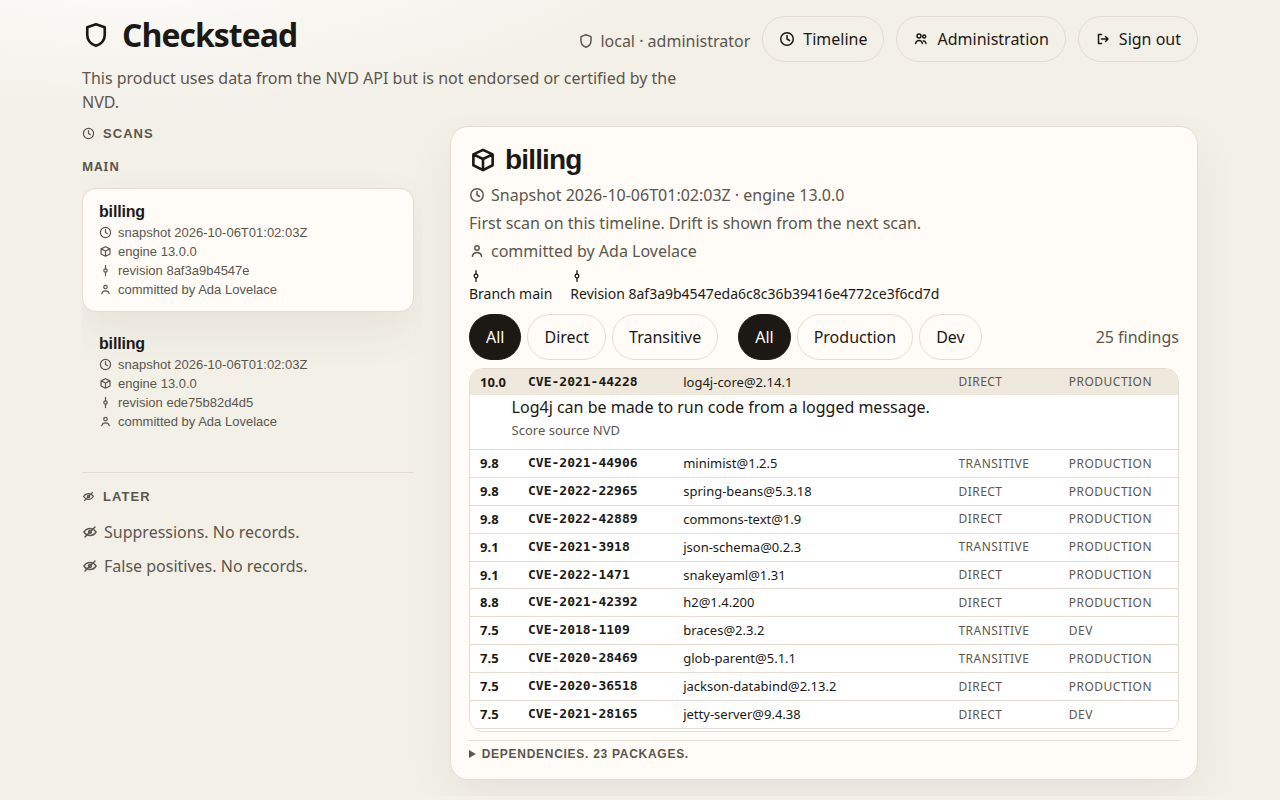
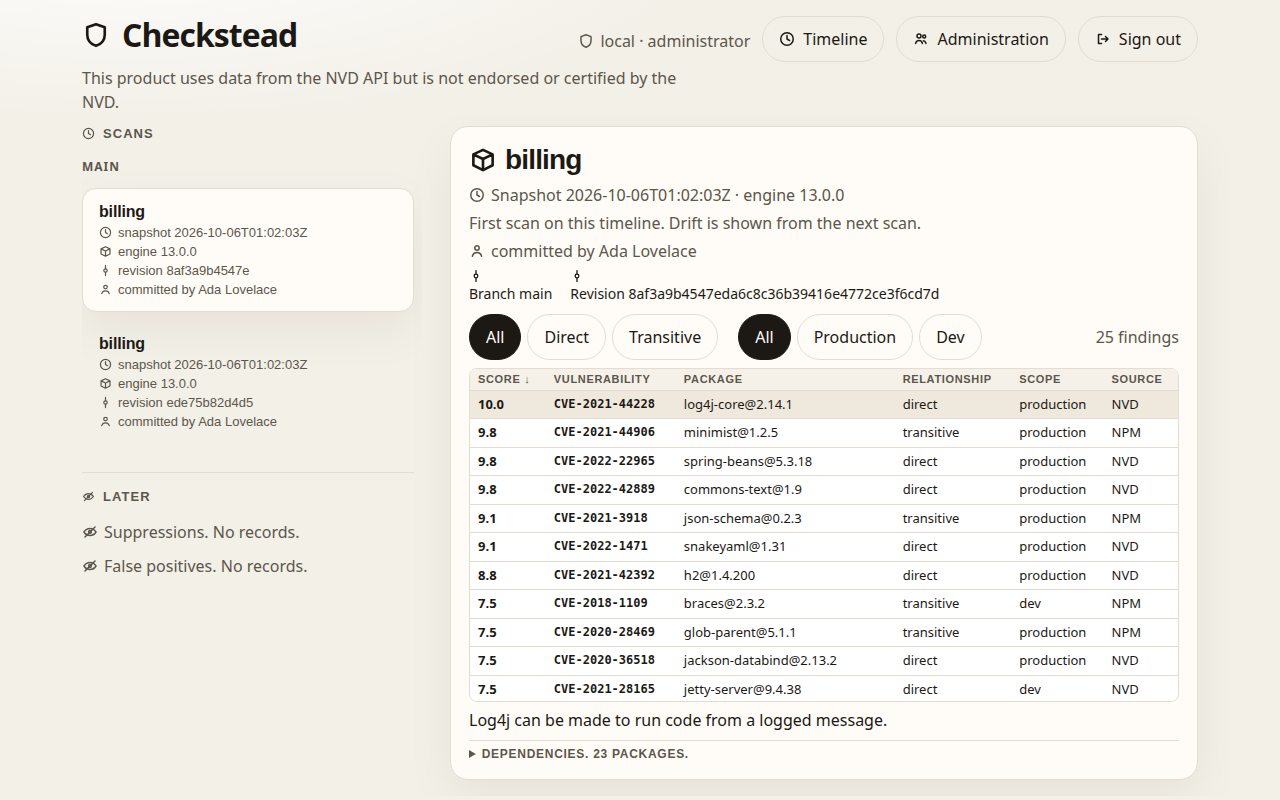
Show findings in one sortable table.
The columns are score, vulnerability, package, relationship, scope, and source. The header sticks while the rows scroll, a selected row is highlighted, and the description is one line under the table.

Changed region(s): [[0.3438, 0.4688, 0.9375, 0.9375]]

diff --git a/src/checkstead/ui_page.html b/src/checkstead/ui_page.html
@@ -128,41 +128,62 @@
     .finding-filters div { display: flex; flex-wrap: nowrap; gap: 6px; }
     .finding-filters button[aria-pressed="true"] { background: var(--ink); color: var(--panel); border-color: var(--ink); }
     .finding-count { margin: 0 0 0 auto; color: var(--muted); white-space: nowrap; }
+    .finding-block {
+      flex: 1;
+      min-height: 0;
+      display: flex;
+      flex-direction: column;
+    }
     .finding-window {
       flex: 1;
       min-height: 0;
       overflow: auto;
       border: 1px solid var(--line);
-      border-radius: 14px;
+      border-radius: 8px;
       background: var(--card);
     }
-    .finding-list { display: grid; gap: 0; }
-    .finding-list li + li { margin-top: 0; }
-    .finding-row { border: 0; border-radius: 0; background: transparent; border-bottom: 1px solid var(--line); }
-    .finding-row > button {
-      display: grid;
-      grid-template-columns: 2.5rem 9.2rem minmax(0, 1fr) 6.4rem 6.2rem;
-      gap: 8px;
-      align-items: center;
-      width: 100%;
-      padding: 5px 10px;
+    table.finding-table { border-collapse: separate; border-spacing: 0; font-size: 13px; }
+    .finding-table th, .finding-table td {
+      padding: 4px 8px;
+      vertical-align: middle;
+      white-space: nowrap;
+      border-bottom: 1px solid var(--line);
+    }
+    .finding-table th {
+      position: sticky;
+      top: 0;
+      z-index: 1;
+      background: #f6f1e8;
+      font: 650 11px/1.2 ui-sans-serif, sans-serif;
+      letter-spacing: 0.06em;
+      text-transform: uppercase;
+      color: var(--muted);
+    }
+    .finding-table th button {
+      display: inline;
+      width: auto;
+      margin: 0;
+      padding: 0;
       border: 0;
       border-radius: 0;
-      background: transparent;
+      background: none;
       color: inherit;
-      font: 13px/1.3 ui-sans-serif, "Segoe UI", sans-serif;
-      text-align: left;
+      font: inherit;
+      letter-spacing: inherit;
+      text-transform: inherit;
       cursor: pointer;
     }
-    .finding-row > button[aria-current="true"] { background: #efe8dc; }
-    .finding-row > button:focus-visible { outline: 2px solid var(--focus); outline-offset: -2px; }
-    .finding-score { font-variant-numeric: tabular-nums; font-weight: 650; }
-    .vuln-id, .finding-package { overflow: hidden; text-overflow: ellipsis; white-space: nowrap; }
-    .vuln-id { font: 600 13px/1.3 ui-monospace, monospace; }
-    .finding-kind, .finding-source { font-size: 12px; letter-spacing: 0.04em; text-transform: uppercase; color: var(--muted); }
-    .finding-extra { display: grid; gap: 2px; padding: 0 10px 8px 2.6rem; }
-    .finding-text { margin: 0; }
-    .finding-extra .finding-source { margin: 0; text-transform: none; letter-spacing: 0; font-size: 13px; }
+    .finding-table td { max-width: 18rem; overflow: hidden; text-overflow: ellipsis; }
+    .finding-table tbody tr { cursor: pointer; }
+    .finding-table tbody tr[aria-selected="true"] td { background: #efe8dc; }
+    .finding-table .finding-score { font-variant-numeric: tabular-nums; font-weight: 650; }
+    .finding-table .vuln-id { font: 600 12px/1.3 ui-monospace, monospace; }
+    .finding-description {
+      margin: 6px 0 0;
+      white-space: nowrap;
+      overflow: hidden;
+      text-overflow: ellipsis;
+    }
     .fold { margin-top: 8px; border-top: 1px solid var(--line); padding-top: 6px; }
     .fold summary {
       cursor: pointer;
@@ -214,7 +235,6 @@
       main, body.app main { grid-template-columns: 1fr; height: auto; }
       body.app { height: auto; overflow: auto; }
       .finding-toolbar, .finding-filters, .finding-filters div { flex-wrap: wrap; }
-      .finding-row > button { grid-template-columns: 2.5rem minmax(7rem, 1fr) minmax(0, 1.2fr) auto auto; }
       .finding-window { max-height: 40vh; flex: none; }
       header, main, #gate, #admin { padding-left: 16px; padding-right: 16px; }
       .timeline { padding-right: 0; }
@@ -317,6 +337,8 @@
       openFinding: null,
       findingRelationship: "",
       findingScope: "",
+      findingSort: "score",
+      findingSortDescending: true,
     };
 
     function text(tag, value, className) {
@@ -572,33 +594,50 @@
       return bar;
     }
 
+    const findingColumns = [
+      ["score", "Score"],
+      ["id", "Vulnerability"],
+      ["package", "Package"],
+      ["relationship", "Relationship"],
+      ["scope", "Scope"],
+      ["scoreSource", "Source"],
+    ];
+
+    function findingField(item, key) {
+      if (key === "score") return item.score || "";
+      if (key === "package") return item.package || item.dependency || "";
+      if (key === "scoreSource") return item.scoreSource || "";
+      if (key === "relationship") return item.relationship || "direct";
+      if (key === "scope") return item.scope || "production";
+      return item.id || "";
+    }
+
+    function sortByColumn(key) {
+      if (state.findingSort === key) state.findingSortDescending = !state.findingSortDescending;
+      else {
+        state.findingSort = key;
+        state.findingSortDescending = key === "score";
+      }
+      render();
+    }
+
     function findingRow(item) {
       const key = findingKey(item);
       const selected = state.openFinding === key;
-      const row = document.createElement("li");
-      row.className = "finding-row";
-      const button = document.createElement("button");
-      button.type = "button";
-      if (selected) button.setAttribute("aria-current", "true");
-      button.append(
-        text("span", item.score || "—", "finding-score"),
-        text("span", item.id || "—", "vuln-id"),
-        text("span", item.package || item.dependency || "—", "finding-package"),
-        text("span", item.relationship || "direct", "finding-kind"),
-        text("span", item.scope || "production", "finding-kind")
-      );
-      button.addEventListener("click", () => {
+      const row = document.createElement("tr");
+      if (selected) row.setAttribute("aria-selected", "true");
+      findingColumns.forEach((column) => {
+        const cell = document.createElement("td");
+        const value = findingField(item, column[0]) || "—";
+        if (column[0] === "score") cell.className = "finding-score";
+        if (column[0] === "id") cell.className = "vuln-id";
+        cell.textContent = value;
+        row.append(cell);
+      });
+      row.addEventListener("click", () => {
         state.openFinding = key;
         render();
       });
-      row.append(button);
-      if (selected) {
-        const extra = document.createElement("div");
-        extra.className = "finding-extra";
-        extra.append(text("p", item.description || "No description recorded.", "finding-text"));
-        extra.append(text("p", "Score source " + (item.scoreSource || "—"), "finding-source"));
-        row.append(extra);
-      }
       return row;
     }
 
@@ -610,7 +649,14 @@
         if (state.findingScope && scope !== state.findingScope) return false;
         return true;
       });
-      items.sort((a, b) => findingRank(b) - findingRank(a) || String(a.id || "").localeCompare(String(b.id || "")));
+      items.sort((a, b) => {
+        const ranked = findingRank(b) - findingRank(a);
+        const delta = state.findingSort === "score"
+          ? (state.findingSortDescending ? ranked : -ranked)
+          : String(findingField(a, state.findingSort)).localeCompare(String(findingField(b, state.findingSort)));
+        const directed = state.findingSort === "score" ? delta : (state.findingSortDescending ? -delta : delta);
+        return directed || String(a.id || "").localeCompare(String(b.id || ""));
+      });
       if (!items.some((item) => findingKey(item) === state.openFinding)) {
         state.openFinding = items.length ? findingKey(items[0]) : null;
       }
@@ -618,16 +664,40 @@
     }
 
     function findingsSection(findings) {
+      const wrap = document.createElement("div");
+      wrap.className = "finding-block";
       const findingWindow = document.createElement("div");
       findingWindow.className = "finding-window";
       const items = visibleFindings(findings);
-      if (items.length) {
-        const list = document.createElement("ul");
-        list.className = "finding-list";
-        items.forEach((item) => list.append(findingRow(item)));
-        findingWindow.append(list);
-      }
-      return findingWindow;
+      const table = document.createElement("table");
+      table.className = "finding-table";
+      const head = document.createElement("thead");
+      const headRow = document.createElement("tr");
+      findingColumns.forEach((column) => {
+        const cell = document.createElement("th");
+        cell.setAttribute("scope", "col");
+        const active = state.findingSort === column[0];
+        if (active) cell.setAttribute("aria-sort", state.findingSortDescending ? "descending" : "ascending");
+        const button = document.createElement("button");
+        button.type = "button";
+        button.textContent = column[1] + (active ? (state.findingSortDescending ? " ↓" : " ↑") : "");
+        button.addEventListener("click", () => sortByColumn(column[0]));
+        cell.append(button);
+        headRow.append(cell);
+      });
+      head.append(headRow);
+      const body = document.createElement("tbody");
+      items.forEach((item) => body.append(findingRow(item)));
+      table.append(head, body);
+      findingWindow.append(table);
+      const chosen = items.find((item) => findingKey(item) === state.openFinding);
+      const description = document.createElement("p");
+      description.className = "finding-description";
+      description.textContent = chosen
+        ? (chosen.description || "No description recorded.")
+        : "No findings.";
+      wrap.append(findingWindow, description);
+      return wrap;
     }
 
     function findingToolbar(total) {

diff --git a/tests/test_history.py b/tests/test_history.py
@@ -207,17 +207,26 @@ class HistoryTests(TestCase):
         self.assertIn("branch-group", page)
         self.assertIn("function branchGroups", page)
         self.assertIn("scan.branch", page)
+        self.assertIn("finding-table", page)
         self.assertIn("finding-window", page)
-        self.assertIn("finding-extra", page)
+        self.assertIn('"Score"', page)
+        self.assertIn('"Vulnerability"', page)
+        self.assertIn('"Package"', page)
+        self.assertIn('"Relationship"', page)
+        self.assertIn('"Scope"', page)
+        self.assertIn('"Source"', page)
+        self.assertIn("position: sticky", page)
+        self.assertIn("finding-description", page)
+        self.assertNotIn("finding-extra", page)
         self.assertNotIn("finding-split", page)
         self.assertNotIn("finding-selected", page)
         self.assertIn("findingsSection", page)
-        self.assertIn("finding-row", page)
         self.assertIn("finding-filters", page)
         self.assertIn("function findingRank", page)
         self.assertIn("findingRank(b) - findingRank(a)", page)
+        self.assertIn("state.findingSortDescending", page)
         self.assertIn("state.openFinding = items.length ? findingKey(items[0]) : null", page)
-        self.assertIn('setAttribute("aria-current", "true")', page)
+        self.assertIn('setAttribute("aria-selected", "true")', page)
         self.assertNotIn("findingPageSize", page)
         self.assertNotIn("CVSS and score source", page)
         self.assertIn('filterGroup("Relationship"', page)

diff --git a/README.md b/README.md
@@ -130,13 +130,13 @@ On localhost, the first person uses **Sign in on this computer**. That button is
 
 ![Sign-in page. Sign in on this computer is enabled. GitHub and Microsoft are inactive.](docs/screenshots/sign-in.png)
 
-The first scan on a branch is the scan view. This one records branch `main`. Findings are one dense list. Each line shows the score, vulnerability id, package, direct or transitive, and production or dev. The list is sorted by score, highest first, and the first line starts selected. That line expands only enough for the description and the score source. The filters and the count stay on one line. The list scrolls inside its pane. Dependencies stay closed until opened.
+The first scan on a branch is the scan view. This one records branch `main`. Findings are one table. The columns are Score, Vulnerability, Package, Relationship, Scope, and Source. The header sticks while the rows scroll inside the table. Score starts highest first, and clicking a column sorts by that column. The selected row is highlighted. Its description is one line under the table. The filters and the count stay on one line above the table. Dependencies stay closed until opened.
 
-![Scan of billing on branch main. One dense finding list, with the first line expanded.](docs/screenshots/scan.png)
+![Scan of billing on branch main. Findings are one table, with the description on one line under it.](docs/screenshots/scan.png)
 
-The next scan on that branch is the drift. The branch is `main`. Guava moved from 31.1-jre to 32.1.3-jre, commons-text moved from 1.9 to 1.10.0, and gson arrived. The drift line says no findings were added or removed between the two scans. That detail stays closed until opened. The same dense list is on the screen.
+The next scan on that branch is the drift. The branch is `main`. Guava moved from 31.1-jre to 32.1.3-jre, commons-text moved from 1.9 to 1.10.0, and gson arrived. The drift line says no findings were added or removed between the two scans. That detail stays closed until opened. The same table is on the screen.
 
-![Drift on branch main. The dense finding list stays on one screen, with drift closed.](docs/screenshots/drift.png)
+![Drift on branch main. The finding table stays on one screen, with drift closed.](docs/screenshots/drift.png)
 
 The first person to sign in is the administrator. Administration is where that person adds later accounts.
 
@@ -406,7 +406,7 @@ The Action passes `GITHUB_REF_NAME` and `GITHUB_SHA` into the scan. `checkstead.
 
 On a pull request the Action fetches the head commit and the base commit, then scans both trees in one run. Both scans use the same snapshot and `--noupdate`. A finding is introduced only when its package identity and vulnerability id are on the head and absent on the base.
 
-Findings in `checkstead.txt` are separate groups: direct and transitive, and production and dev. Each vulnerability has a `description:` line, plus the score, the score source, and the package. The timeline keeps the findings on one screen. Each line shows the score, vulnerability id, package, direct or transitive, and production or dev, sorted by score, highest first. The selected line expands for the description and the score source. The SARIF result carries the same description, score, score source, and package.
+Findings in `checkstead.txt` are separate groups: direct and transitive, and production and dev. Each vulnerability has a `description:` line, plus the score, the score source, and the package. The timeline keeps the findings in one table on one screen. The columns are score, vulnerability id, package, relationship, scope, and score source. Score starts highest first, and a column header sorts the table. The selected row is highlighted, and its description is one line under the table. The SARIF result carries the same description, score, score source, and package.
 
 ### Pull requests
 
@@ -468,7 +468,7 @@ The two reports already in `ui/scans` are a pair of fixture scans on the same sn
 
 A scan records a revision when you pass `--revision`, and the GitHub Action passes `GITHUB_SHA`. When that revision is a commit git can see, the report also names the author. The sample reports use the commits of the fixture trees. Both were committed by Cursor Agent.
 
-A scan records the git branch of the tree it scanned, the branch you pass with `--branch`, or `GITHUB_REF_NAME` from the Action. The timeline reads `branch:` from `checkstead.txt` and groups scans into one section per branch. Drift is the change from the previous scan on that same branch. Each finding is one line in a list that scrolls inside its pane: score, vulnerability id, package, direct or transitive, and production or dev. The list is sorted by score, highest first, and the first line starts selected. That line expands only enough for the description and the score source. The page does not grow with the finding count. Filters and the count stay on one line. Dependency and drift details stay closed until opened.
+A scan records the git branch of the tree it scanned, the branch you pass with `--branch`, or `GITHUB_REF_NAME` from the Action. The timeline reads `branch:` from `checkstead.txt` and groups scans into one section per branch. Drift is the change from the previous scan on that same branch. Findings are one table. The header sticks while the rows scroll inside the table. Score starts highest first, and clicking a column sorts by that column. The selected row is highlighted, and its description is one line under the table. The page does not grow with the finding count. Filters and the count stay on one line above the table. Dependency and drift details stay closed until opened.
 
 ## Server
 
